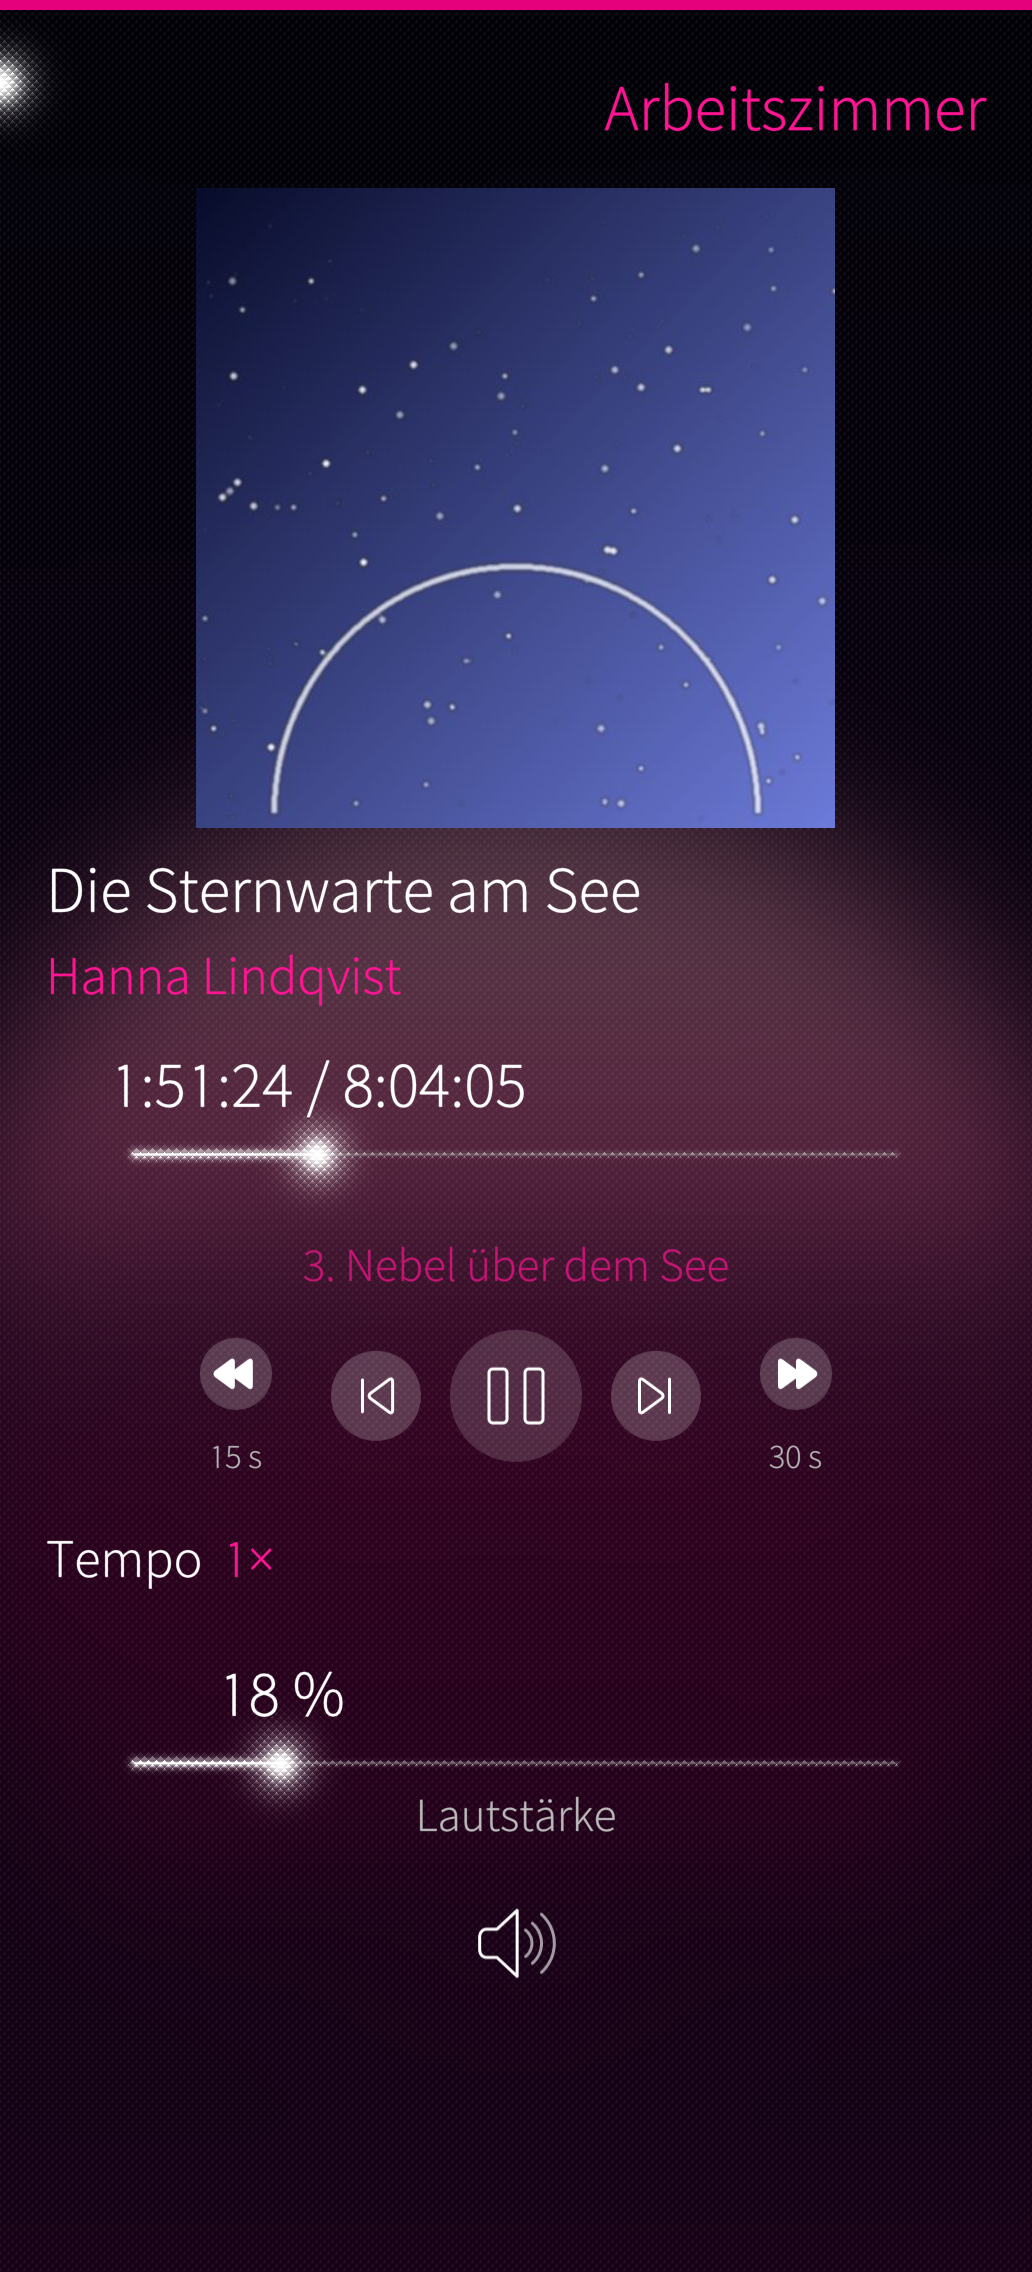
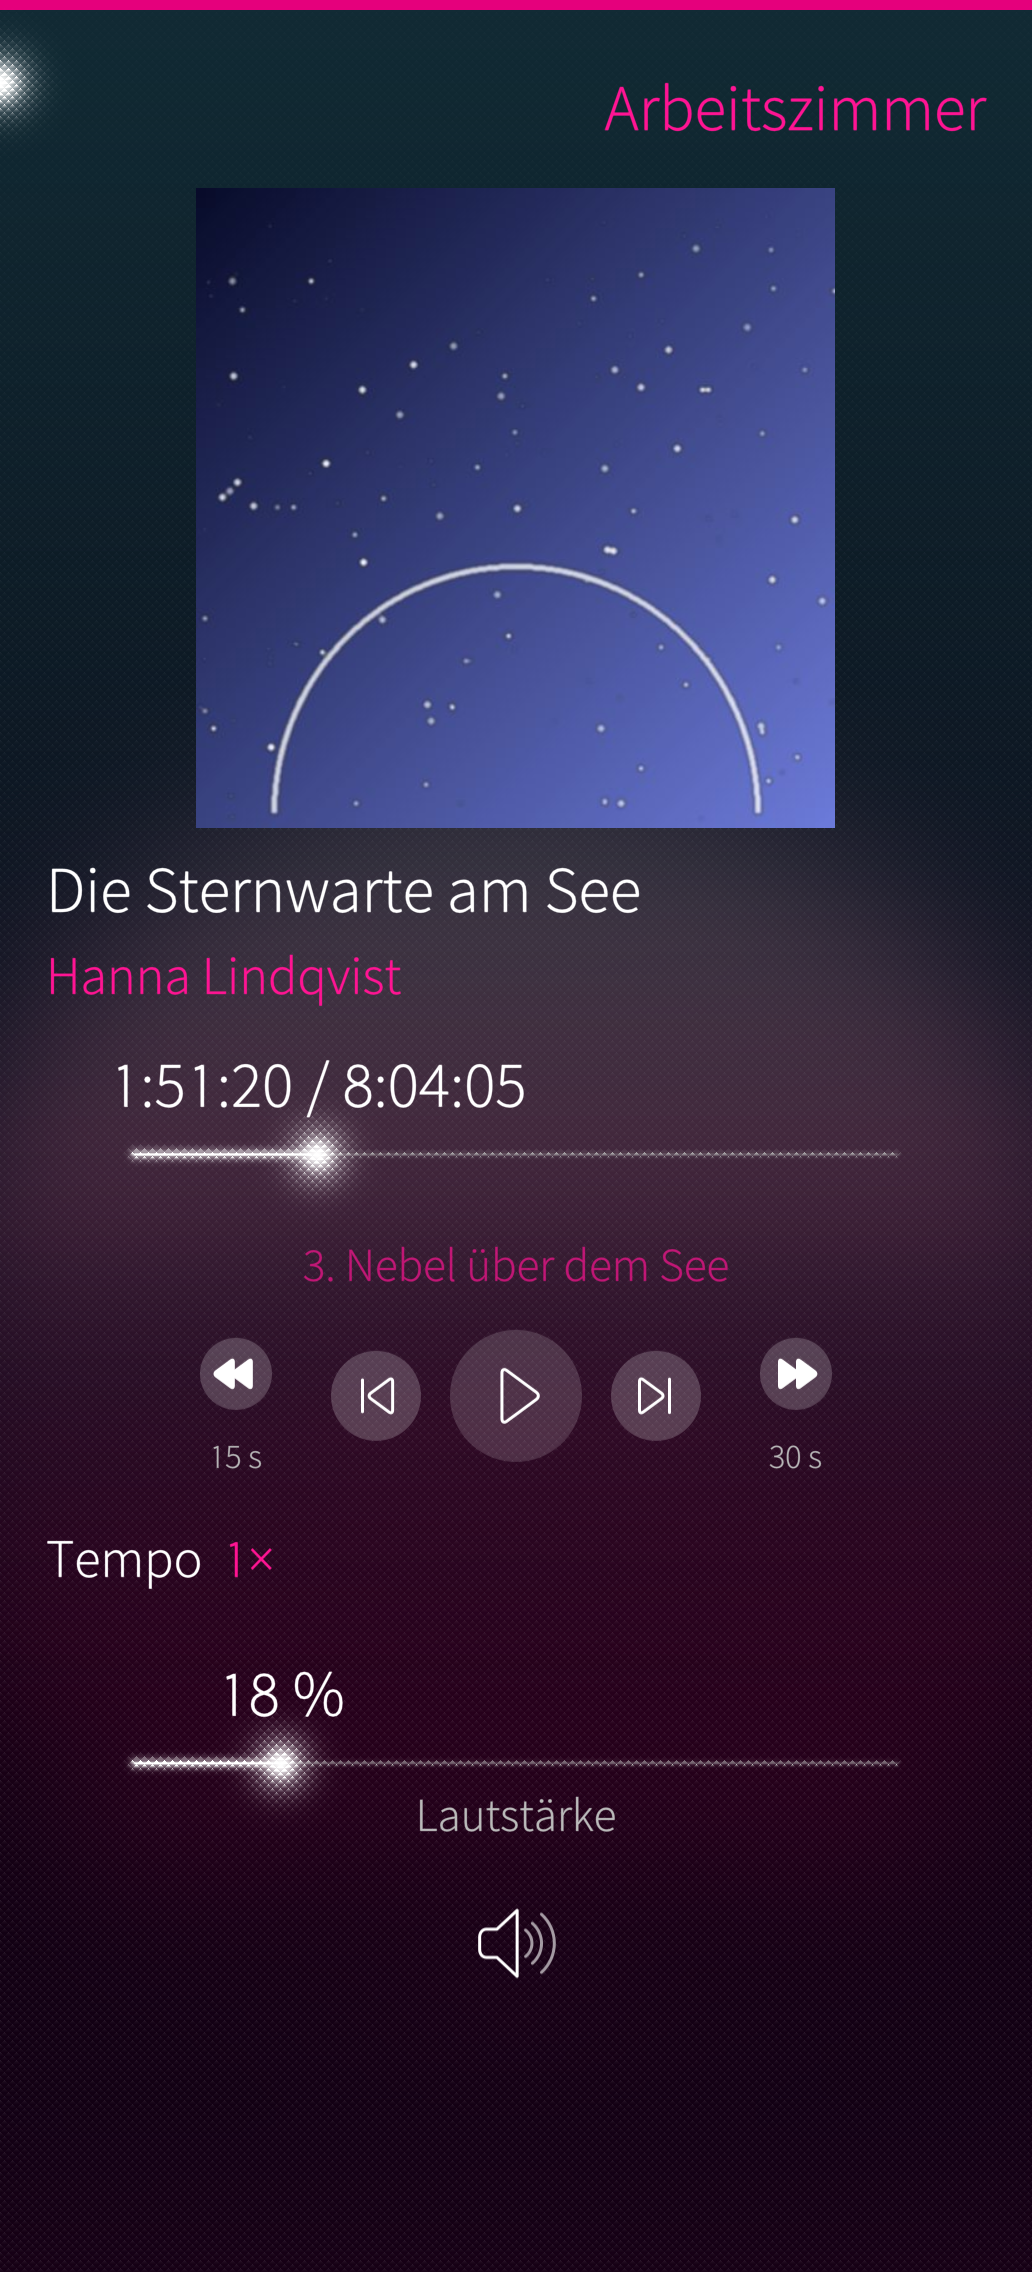
v0.32: Einzahl-Korrekturen, neue Store-Bilder
- "1 Album", "1 Titel", "1 Folge" statt "1 Alben" usw. (Interpret, Album,
  Podcast; englisch "1 album" statt "1 albums").
- Store: neun neue Bildschirmfotos, alle aus dem Demomodus (Player, Läuft
  gerade mit Cover-Farben, Bibliothek, Interpret, Album, Warteschlange,
  Hörbuch, Songtext, Podcast); store/README.md beschreibt sie.
- Demo: top_tracks liefert vier statt alle eigenen Titel.
- Liner Notes: Stück 0.32 auf Seite D.

Claude-Session: https://claude.ai/code/session_01LRsdTTAN5YEx5YXz8vEqHE

diff --git a/translations/harbour-tonarm-en.ts b/translations/harbour-tonarm-en.ts
@@ -66,6 +66,10 @@
         <source>keiner</source>
         <translation>none</translation>
     </message>
+    <message>
+        <source>1 Titel</source>
+        <translation>1 track</translation>
+    </message>
 </context>
 <context>
     <name>AnnouncementDialog</name>
@@ -175,6 +179,10 @@
     <message>
         <source>In der Bibliothek</source>
         <translation>In your library</translation>
+    </message>
+    <message>
+        <source>1 Album</source>
+        <translation>1 album</translation>
     </message>
 </context>
 <context>
@@ -627,6 +635,10 @@ Aufgenommen mit Sailfish Silica auf einem Jolla Phone</source>
         <translation>Produced by silly82
 Music by Music Assistant
 Recorded with Sailfish Silica on a Jolla Phone</translation>
+    </message>
+    <message>
+        <source>Ein Album, nicht Alben</source>
+        <translation>One Album, Not Albums</translation>
     </message>
 </context>
 <context>
@@ -1304,6 +1316,10 @@ Recorded with Sailfish Silica on a Jolla Phone</translation>
     <message>
         <source>neu</source>
         <translation>new</translation>
+    </message>
+    <message>
+        <source>1 Folge</source>
+        <translation>1 episode</translation>
     </message>
 </context>
 <context>

diff --git a/qml/pages/LinerNotesPage.qml b/qml/pages/LinerNotesPage.qml
@@ -64,7 +64,8 @@ Page {
             { n: 28, v: "0.28", title: QT_TR_NOOP("Achtung, eine Durchsage") },
             { n: 29, v: "0.29", title: QT_TR_NOOP("Neue Folge") },
             { n: 30, v: "0.30", title: QT_TR_NOOP("Farben aus dem Cover") },
-            { n: 31, v: "0.31", title: QT_TR_NOOP("Ein Tonarm für Tonarm (Hidden Track)") }
+            { n: 31, v: "0.31", title: QT_TR_NOOP("Ein Tonarm für Tonarm (Hidden Track)") },
+            { n: 32, v: "0.32", title: QT_TR_NOOP("Ein Album, nicht Alben") }
         ] }
     ]
 

diff --git a/qml/pages/AlbumPage.qml b/qml/pages/AlbumPage.qml
@@ -102,7 +102,7 @@ Page {
                         parts.push(page.album.year)
                     }
                     if (page.tracks.length > 0) {
-                        parts.push(qsTr("%1 Titel").arg(page.tracks.length))
+                        parts.push(page.tracks.length === 1 ? qsTr("1 Titel") : qsTr("%1 Titel").arg(page.tracks.length))
                     }
                     return parts.join(" · ")
                 }

diff --git a/qml/components/DemoConnection.qml b/qml/components/DemoConnection.qml
@@ -956,7 +956,7 @@ Item {
                     own = own.concat(_data.tracksByAlbum[_data.albums[i].item_id])
                 }
             }
-            own = own.slice().reverse()
+            own = own.slice().reverse().slice(0, 4)
             return own.length > 0 ? own.concat([own[0]]) : []
         case "music/artists/similar_artists":
             // Alle anderen, dazu der eine aus dem "Streaming-Katalog" --

diff --git a/qml/pages/ArtistPage.qml b/qml/pages/ArtistPage.qml
@@ -199,7 +199,7 @@ Page {
             PageHeader {
                 title: page.artist ? page.artist.name : ""
                 description: page.albums.length > 0
-                             ? qsTr("%1 Alben").arg(page.albums.length) : ""
+                             ? (page.albums.length === 1 ? qsTr("1 Album") : qsTr("%1 Alben").arg(page.albums.length)) : ""
             }
 
             Image {

diff --git a/qml/pages/PodcastPage.qml b/qml/pages/PodcastPage.qml
@@ -145,7 +145,7 @@ Page {
                 font.pixelSize: Theme.fontSizeExtraSmall
                 color: Theme.secondaryColor
                 visible: page.episodes.length > 0
-                text: qsTr("%1 Folgen").arg(page.episodes.length)
+                text: page.episodes.length === 1 ? qsTr("1 Folge") : qsTr("%1 Folgen").arg(page.episodes.length)
             }
 
             Row {

diff --git a/store/README.md b/store/README.md
@@ -71,9 +71,9 @@ Gegenteil -- das war falsch.)
 
 | Datei | Prüfung | Gerätetest |
 |---|---|---|
-| `harbour-tonarm-0.30-1.aarch64.rpm` | harbour: succeeded · rpmlint: 0/0/0 | **auf echter Hardware gelaufen** (Jolla Phone 2026) |
-| `harbour-tonarm-0.30-1.armv7hl.rpm` | harbour: succeeded · rpmlint: 0/0/0 | nie auf echter armv7hl-Hardware |
-| `harbour-tonarm-0.30-1.i486.rpm` | harbour: succeeded · rpmlint: 0/0/0 | nie auf echter i486-Hardware |
+| `harbour-tonarm-0.32-1.aarch64.rpm` | harbour: succeeded · rpmlint: 0/0/0 | **auf echter Hardware gelaufen** (Jolla Phone 2026) |
+| `harbour-tonarm-0.32-1.armv7hl.rpm` | harbour: succeeded · rpmlint: 0/0/0 | nie auf echter armv7hl-Hardware |
+| `harbour-tonarm-0.32-1.i486.rpm` | harbour: succeeded · rpmlint: 0/0/0 | nie auf echter i486-Hardware |
 
 Für die Einreichung die Pakete des neuesten Releases nehmen; jedes Release
 seit v0.17 hat alle drei, gebaut aus dem getaggten Commit.
@@ -136,23 +136,33 @@ App-Icon.
 
 ## Visual assets → Screenshots
 
-In `screenshots/`, vom echten Gerät aufgenommen (1032×2272, Jolla Phone 2026):
+In `screenshots/`, vom echten Gerät aufgenommen (1032×2272, Jolla Phone 2026),
+Stand v0.31, **alle neun aus dem Demomodus**:
 
-- `01-bibliothek.png` — Bibliotheksübersicht mit Anzahl je Bereich
-- `02-album.png` — Albumseite mit Cover und Titelliste
-- `03-titelliste.png` — Titelliste mit Suchfeld
-- `04-player.png` — Player-Liste *(Demomodus)*
-- `05-laeuft-gerade.png` — Läuft gerade mit Cover, Fortschritt, Lautstärke *(Demomodus)*
-- `06-warteschlange.png` — Warteschlange *(Demomodus)*
+- `01-player.png` — Player-Liste mit Gruppe und laufenden Titeln
+- `02-laeuft-gerade.png` — Läuft gerade: Cover, Fortschritt, Lautstärke,
+  Hintergrund in den Farben des Covers
+- `03-bibliothek.png` — Bibliotheksübersicht mit Anzahl je Bereich
+- `04-interpret.png` — Interpretenseite: beliebte Titel, darunter „In der
+  Bibliothek"
+- `05-album.png` — Albumseite mit Cover und Titelliste
+- `06-warteschlange.png` — Warteschlange mit Zufall, Überblenden, Wiederholen
 - `07-hoerbuch.png` — Läuft gerade bei einem Hörbuch: Kapitel, −15 s/+30 s,
-  Tempo *(Demomodus)*
+  Tempo
+- `08-songtext.png` — mitlaufender Songtext
+- `09-podcast.png` — Podcast mit Folgen, Datum, Dauer und Hörstand
 
-Die Bilder 04–07 kommen aus dem **Demomodus** (Einstellungen → Demo): fünf
-erfundene Räume, erfundene Musik, abstrakte Cover ohne Schrift oder Marken
-(`generate-demo-art.py`). Damit zeigen sie weder die Räume einer echten
-Wohnung noch deren Hörhistorie — genau das, was die Player-Liste, Läuft gerade
-und die Warteschlange früher von den Store-Bildern ausgeschlossen hatte. Die
-Player-Liste trägt oben den Hinweis "Demomodus"; das ist ehrlich und bleibt so.
+Der Demomodus (Einstellungen → Demo) zeigt fünf erfundene Räume, erfundene
+Musik und abstrakte Cover ohne Schrift oder Marken (`generate-demo-art.py`).
+Damit zeigen die Bilder weder die Räume einer echten Wohnung noch deren
+Hörhistorie, noch fremde Albumcover. Die Player-Liste trägt oben den Hinweis
+"Demomodus"; das ist ehrlich und bleibt so. Die Easter Eggs sind bewusst auf
+keinem Bild.
+
+Aufgenommen wurde mit einem vorübergehenden Einstieg in
+`qml/harbour-tonarm.qml` (nicht eingecheckt), der nach dem Start je nach einem
+dconf-Schlüssel direkt die gewünschte Seite öffnet -- so ist jedes Bild ein
+frischer Start des Demomodus, ohne Tippen auf dem Telefon.
 
 Für Store-Bilder den Demomodus frisch einschalten (er beginnt dann immer beim
 selben Ausgangszustand) und danach wieder aus.

diff --git a/KONZEPT.md b/KONZEPT.md
@@ -1436,7 +1436,9 @@ Kapitelsprung und Tempo), die Warteschlange mit Springen, die Bibliothek, die
 Albumliste (Cover, Favoriten, zweizeiliger Titel), die Hörbuchseite und das
 App-Cover. Nach dem Ausschalten verband die App wieder mit dem echten Server,
 der gemerkte Player war unverändert, im Journal stand keine Warnung. Die
-Bilder 04 bis 07 in `store/screenshots/` stammen aus diesem Durchgang.
+Bilder 04 bis 07 in `store/screenshots/` stammen aus diesem Durchgang (seit
+v0.31 sind alle Store-Bilder aus dem Demomodus neu aufgenommen, siehe
+`store/README.md`).
 
 Nebenbei gefunden: "1 Einträge" in Bibliothek und Listen. Deutsch ist hier
 Quellsprache ohne eigene `.ts`, eine `%n`-Pluralform hülfe also nur dem
@@ -1843,7 +1845,8 @@ Katalognummer mit der App-Version.
 docs/DEVELOPMENT.md). Die Handbücher verraten die Easter Eggs nicht, sie
 deuten sie nur an; auch der Changelog gibt nur einen Tipp.
 
-**Geprüft** auf dem Jolla Phone im Demomodus (kein Ton): sieben Tipps aufs
+**Geprüft** auf dem Jolla Phone im Demomodus (kein Ton), danach vom Nutzer
+auch mit der echten Bibliothek bestätigt: sieben Tipps aufs
 Cover → Meldung und Schallplatte, Etikett dreht sich zwischen zwei
 Bildschirmfotos weiter, Tonarm auf der Platte; Pause → Platte steht, Arm in
 Ruhe. Einstellungen zeigen "Tonarm 0.31", sieben Tipps → Liner Notes mit allen

diff --git a/TODO.md b/TODO.md
@@ -1,4 +1,4 @@
-# Stand und offene Punkte (v0.31, 30.9.2026)
+# Stand und offene Punkte (v0.32, 1.10.2026)
 
 Die Liste unten ("Erkenntnisse aus der iOS-App") ist **vollständig
 abgearbeitet**; zwei Punkte sind bewusst entschieden statt umgesetzt. Danach
@@ -13,6 +13,7 @@ geprüft (Details je Version in `KONZEPT.md`):
 | v0.29 | Podcast-Folgen wie im Podcatcher (Overcast-Abgleich) |
 | v0.30 | Playlists bearbeiten, Bibliothek pflegen, Sender hinzufügen, Farben aus dem Cover |
 | v0.31 | Beliebte Titel auch für Bibliotheks-Interpreten (`top_tracks`; `top_albums` liefert hier nichts), Fehlermeldungen übersetzt, App-Version in den Einstellungen |
+| v0.32 | Einzahl-Korrekturen ("1 Album"), neun neue Store-Bilder aus dem Demomodus |
 
 ## Offen
 

diff --git a/README.md b/README.md
@@ -7,7 +7,7 @@ die WebSocket-API des Servers direkt an.
 Nicht mit dem Music-Assistant-Projekt verbunden. Der Name "Music Assistant"
 gehört dessen Urhebern; diese App heisst deshalb Tonarm.
 
-**Stand: v0.31** (September 2026). Pakete für aarch64, armv7hl und i486 unter
+**Stand: v0.32** (September 2026). Pakete für aarch64, armv7hl und i486 unter
 [Releases](https://github.com/silly82/sailtonarm/releases); alle bestehen
 `sfdk check` (harbour und rpmlint, je ohne Befund). Geprüft auf einem Jolla
 Phone (2026) gegen einen echten Server (Music Assistant 2.10.4, Apple Music,

diff --git a/docs/USER_GUIDE.md b/docs/USER_GUIDE.md
@@ -6,7 +6,7 @@ app plays no music itself: it controls the speakers connected to your server
 (Sonos, AirPlay, Chromecast, DLNA and whatever else Music Assistant supports)
 and shows what they are playing.
 
-Version 0.31. *Deutsche Fassung: [BENUTZERHANDBUCH.md](BENUTZERHANDBUCH.md).*
+Version 0.32. *Deutsche Fassung: [BENUTZERHANDBUCH.md](BENUTZERHANDBUCH.md).*
 
 ---
 

diff --git a/docs/DEVELOPMENT.md b/docs/DEVELOPMENT.md
@@ -7,7 +7,7 @@ not taken from its documentation), how to test on the device, the release
 procedure and the pitfalls. Where the two disagree, KONZEPT.md wins; it says
 for each finding when and how it was checked.
 
-State: v0.31, measured against Music Assistant 2.10.4 (API schema 65).
+State: v0.32, measured against Music Assistant 2.10.4 (API schema 65).
 
 ---
 
